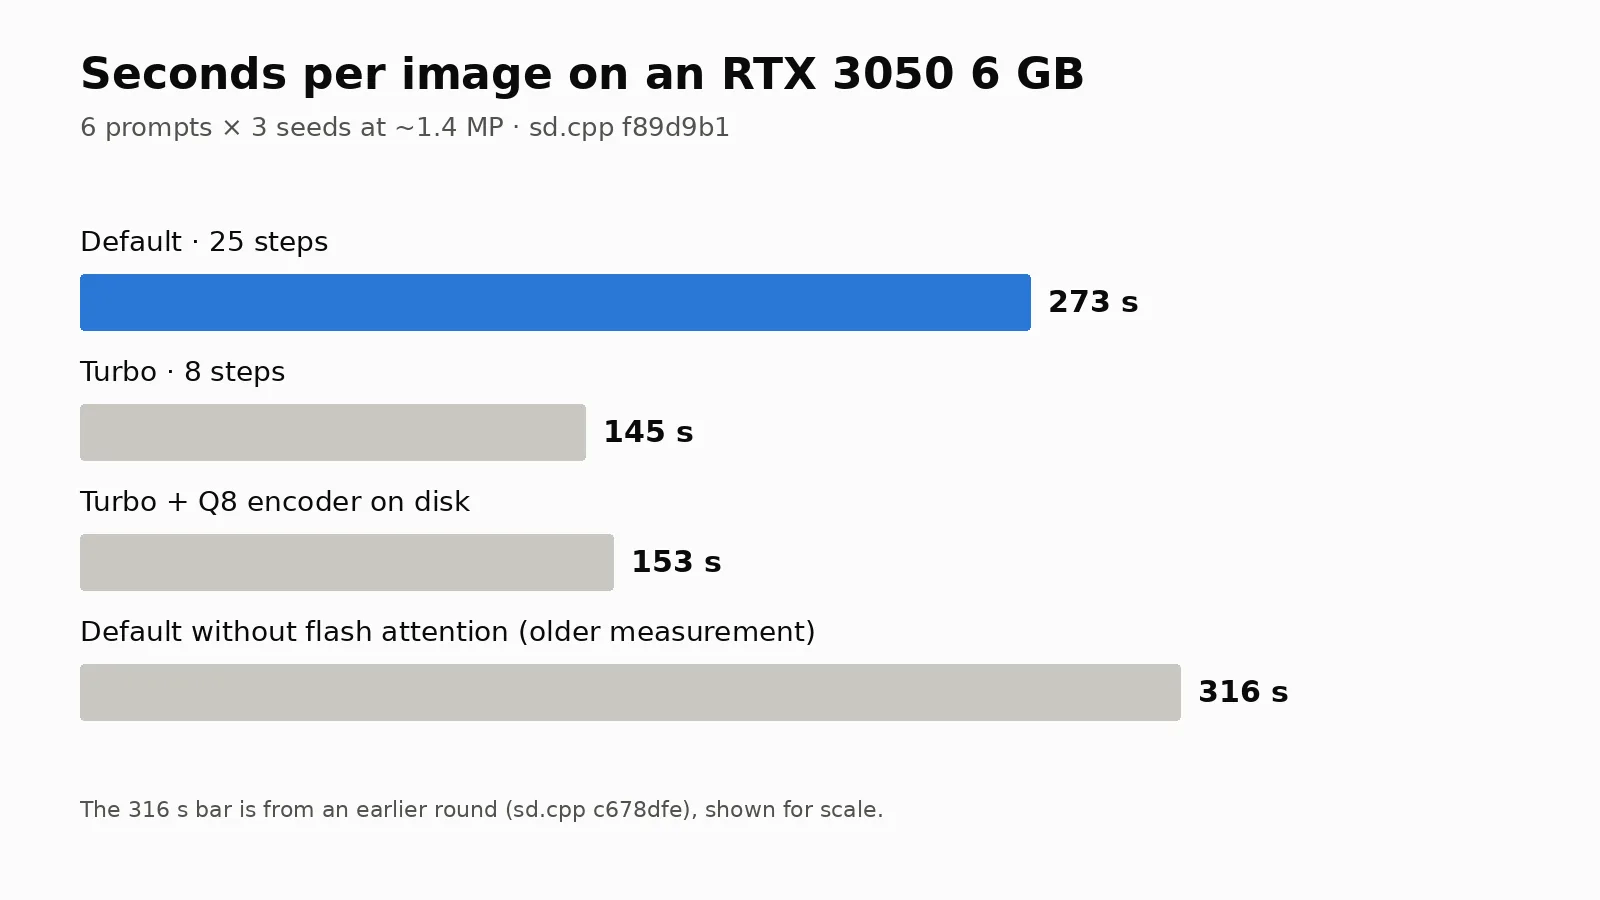
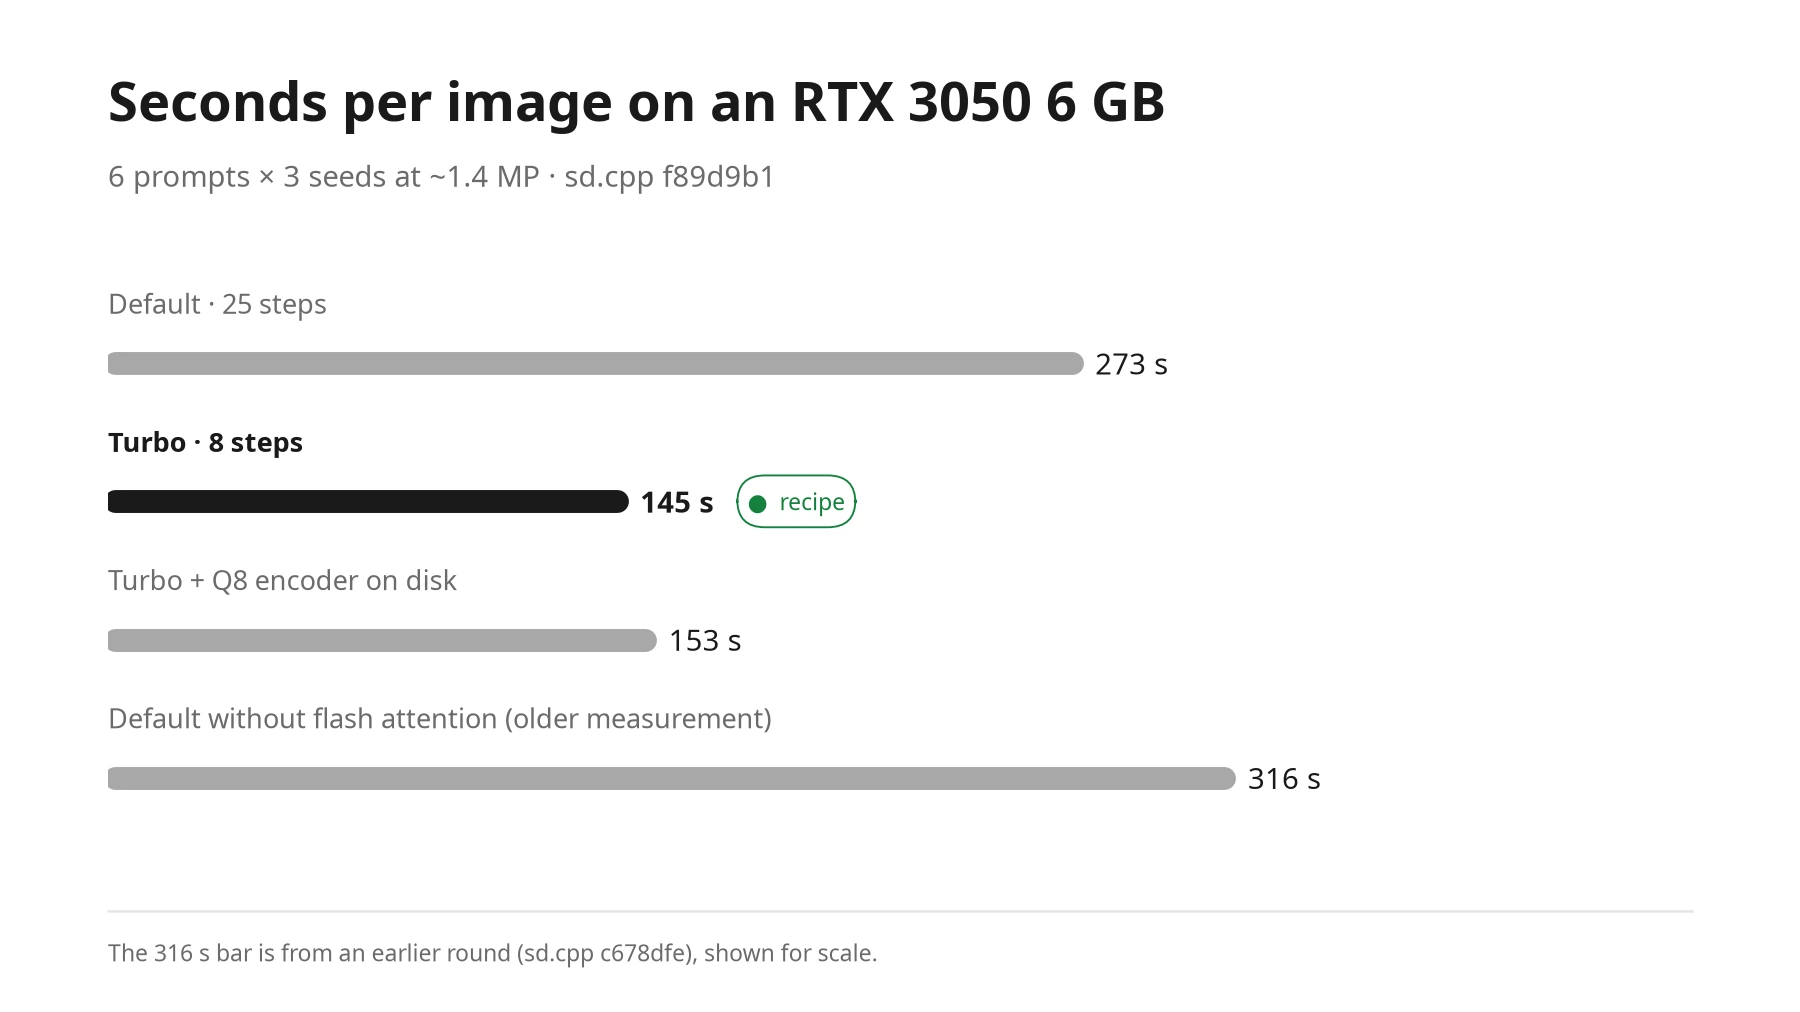
Qwen-Image 2.1 y Turbo: imágenes con el estilo de las gráficas, en claro y oscuro

diff --git a/Qwen-Image-2.1-Turbo/README.es.md b/Qwen-Image-2.1-Turbo/README.es.md
@@ -129,10 +129,16 @@ Las tres recetas (normal, rápida y poca RAM), 6 prompts × 3 semillas cada una:
 | Tiempo por imagen | 4 min 33 s | 2 min 25 s | 2 min 33 s |
 | RAM máxima del sistema | 9,4 GB | 9,4 GB | 5,3 GB |
 
-![Las tres recetas con el mismo anuncio y producto](assets/recipes.es.webp)
+<picture>
+  <source media="(prefers-color-scheme: dark)" srcset="assets/recipes-dark.es.webp">
+  <img alt="Las tres recetas con el mismo anuncio y producto" src="assets/recipes.es.webp">
+</picture>
 *Los mismos prompts de anuncio y producto con las tres recetas.*
 
-![Tiempo por imagen de cada receta](assets/speed.es.webp)
+<picture>
+  <source media="(prefers-color-scheme: dark)" srcset="assets/speed-dark.es.webp">
+  <img alt="Tiempo por imagen de cada receta" src="assets/speed.es.webp">
+</picture>
 
 Cuánto fiarse de cada resultado:
 
@@ -152,7 +158,10 @@ Prompts probados: fotos de producto, retratos, anuncios con texto en español, c
 
 **Imágenes técnicas y académicas.** Probamos 12 temas de distintas disciplinas, sin texto en la imagen, 2 semillas cada uno, con la receta rápida. Datos en bruto: [`bench/tecnico-turbo/`](bench/tecnico-turbo/).
 
-![12 temas técnicos con su veredicto, receta rápida](assets/technical.es.webp)
+<picture>
+  <source media="(prefers-color-scheme: dark)" srcset="assets/technical-dark.es.webp">
+  <img alt="12 temas técnicos con su veredicto, receta rápida" src="assets/technical.es.webp">
+</picture>
 
 - **Sirven (8):** corazón, célula, flor, motor, puente colgante, prisma, capas de la Tierra y sistema solar. El motor ahora dibuja un solo cilindro, como pide el prompt.
 - **Ilustrativas (3):** rodilla (la rótula sigue mal colocada), dodecaedro (algunas caras parecen hexágonos) y circuito. Se reconocen y valen para público general, pero un especialista vería errores.

diff --git a/Qwen-Image-2.1-Turbo/README.md b/Qwen-Image-2.1-Turbo/README.md
@@ -129,10 +129,16 @@ The three recipes (regular, Fast, Low RAM), 6 prompts × 3 seeds each: 54 images
 | Time per image | 4 min 33 s | 2 min 25 s | 2 min 33 s |
 | Peak system RAM | 9.4 GB | 9.4 GB | 5.3 GB |
 
-![The three recipes with the same ad and product shot](assets/recipes.webp)
+<picture>
+  <source media="(prefers-color-scheme: dark)" srcset="assets/recipes-dark.webp">
+  <img alt="The three recipes with the same ad and product shot" src="assets/recipes.webp">
+</picture>
 *The same ad and product prompts with the three recipes.*
 
-![Time per image for each recipe](assets/speed.webp)
+<picture>
+  <source media="(prefers-color-scheme: dark)" srcset="assets/speed-dark.webp">
+  <img alt="Time per image for each recipe" src="assets/speed.webp">
+</picture>
 
 How much to trust each result:
 
@@ -152,7 +158,10 @@ Tested prompts: product shots, portraits, ads with Spanish text, concept art, an
 
 **Technical and academic images.** We tested 12 subjects across disciplines, without text in the image, 2 seeds each, with the Fast recipe. Raw data: [`bench/tecnico-turbo/`](bench/tecnico-turbo/).
 
-![12 technical subjects with a verdict for each, Fast recipe](assets/technical.webp)
+<picture>
+  <source media="(prefers-color-scheme: dark)" srcset="assets/technical-dark.webp">
+  <img alt="12 technical subjects with a verdict for each, Fast recipe" src="assets/technical.webp">
+</picture>
 
 - **Usable (8):** heart, cell, flower, engine, suspension bridge, prism, Earth's layers, solar system. The engine now draws a single cylinder, as the prompt asks.
 - **Illustrative (3):** knee (the kneecap is still in the wrong place), dodecahedron (some faces look like hexagons), circuit. Recognizable, fine for a general audience; a specialist would spot errors.

diff --git a/Qwen-Image-2.1/README.es.md b/Qwen-Image-2.1/README.es.md
@@ -79,7 +79,10 @@ Estos resultados son de la primera ronda, con sd.cpp `c92d73c` (2026-09-22) y `c
 
 Medido con el mismo prompt de anuncio a 768 × 1344, semilla 42, cambiando una sola opción cada vez:
 
-![El mismo anuncio con cuatro configuraciones y sus tiempos](assets/speed.webp)
+<picture>
+  <source media="(prefers-color-scheme: dark)" srcset="assets/speed-dark.es.webp">
+  <img alt="El mismo anuncio con cuatro configuraciones y sus tiempos" src="assets/speed.es.webp">
+</picture>
 
 | Cambio | Tiempo | s/paso | Resultado |
 |---|---|---|---|
@@ -118,7 +121,10 @@ Prompts probados: fotos de producto, retratos, anuncios con texto en español, c
 
 **Imágenes técnicas y académicas.** Probamos 12 temas de distintas disciplinas, sin texto en la imagen, 2 semillas cada uno, con 15 pasos (primera ronda). Datos en bruto: [`bench/tecnico/`](bench/tecnico/).
 
-![12 temas técnicos con su veredicto](assets/technical.es.webp)
+<picture>
+  <source media="(prefers-color-scheme: dark)" srcset="assets/technical-dark.es.webp">
+  <img alt="12 temas técnicos con su veredicto" src="assets/technical.es.webp">
+</picture>
 
 - **Sirven (7):** corazón, célula, flor, puente colgante, prisma, capas de la Tierra y sistema solar. Las estructuras grandes y conocidas salen bien.
 - **Ilustrativas (4):** rodilla (la rótula está mal colocada), motor, dodecaedro y circuito. Se reconocen y valen para público general, pero un especialista vería errores.

diff --git a/Qwen-Image-2.1/README.md b/Qwen-Image-2.1/README.md
@@ -79,7 +79,10 @@ These results come from the first round, on sd.cpp `c92d73c` (2026-09-22) and `c
 
 Measured with the same ad prompt at 768 × 1344, seed 42, one flag changed at a time:
 
-![The same ad with four configurations and their times](assets/speed.webp)
+<picture>
+  <source media="(prefers-color-scheme: dark)" srcset="assets/speed-dark.webp">
+  <img alt="The same ad with four configurations and their times" src="assets/speed.webp">
+</picture>
 
 | Change | Time | s/step | Result |
 |---|---|---|---|
@@ -118,7 +121,10 @@ Tested prompts: product shots, portraits, ads with Spanish text, concept art, an
 
 **Technical and academic images.** We tested 12 subjects across disciplines, without text in the image, 2 seeds each, at 15 steps (first round). Raw data: [`bench/tecnico/`](bench/tecnico/).
 
-![12 technical subjects with a verdict for each](assets/technical.webp)
+<picture>
+  <source media="(prefers-color-scheme: dark)" srcset="assets/technical-dark.webp">
+  <img alt="12 technical subjects with a verdict for each" src="assets/technical.webp">
+</picture>
 
 - **Usable (7):** heart, cell, flower, suspension bridge, prism, Earth's layers, solar system. Large, well-known structures come out right.
 - **Illustrative (4):** knee (the kneecap sits in the wrong place), engine, dodecahedron, circuit. Recognizable, fine for a general audience; a specialist would spot errors.
